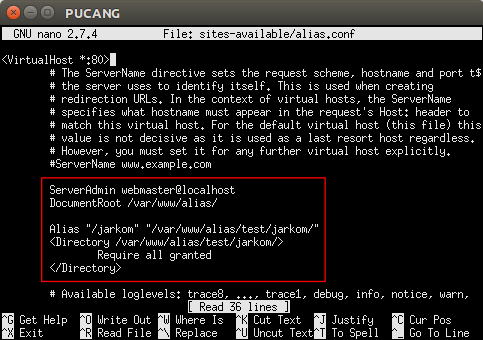
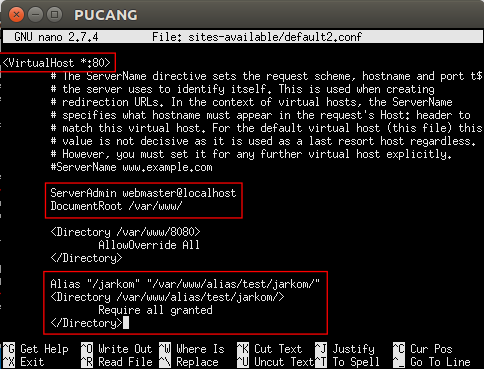
Web Server - Allow dan Deny

Changed region(s): [[0.0, 0.0, 1.0, 1.0], [0.8075, 0.8529, 0.9627, 0.8824], [0.7453, 0.8529, 0.7764, 0.8824]]

diff --git a/WebServer/README.md b/WebServer/README.md
@@ -103,18 +103,18 @@ Lalu untuk menjalankannya ketikkan `a2ensite default2.conf` dan kemudian restart
 ![Pucang9](images/09.png)
 
 ### 2.5 Alias Directory
-Alias directory adalah membuat direktori lebih mudah diakses tetapi tetap di bawah DocumentRoot. Silahkan masuk ke dalam __/etc/apache2__ dan salinlah file __000-default.conf__ yang ada pada folder __sites-available__ dan ubah namanya menjadi __alias.conf__. Langkah-langkahnya sama dengan ketika membuat file __default.conf__ pada poin sebelumnya. Kemudian buka __alias.conf__ dan tambahkan sintaks seperti gambar di bawah:
+Alias directory adalah membuat direktori lebih mudah diakses tetapi tetap di bawah DocumentRoot. Silahkan masuk ke dalam __/etc/apache2__ kemudian buka file __default2.conf__ yang sebelumnya sudah dikonfigurasi untuk poin sebelumnya. Edit file tersebut dan tambahkan seperti gambar di bawah ini:
 
 ![Pucang10](images/10.png)
 
-Setelah itu buatlah direktori __/alias/test/jarkom/__ dengan mengetikkan
+Kemudian restart apache2 dengan perintah `service apache2 restart`. Setelah itu buatlah direktori __/alias/test/jarkom/__ dengan mengetikkan
 ```
 mkdir /var/www/alias
 mkdir /var/www/alias/test
 mkdir /var/www/alias/test/jarkom
 ```
 
-Kemudian pada direktori __/var/www/alias/test/jarkom__ buatlah sebuah file bernama __jarkom.php__. Sebelum mengaktifkan konfigurasi __alias.conf__, pastikan konfigurasi yang lain sudah dimatikan. Karena konfigurasi yang baru kita coba adalah __default2.conf__ maka matikan konfigurasi tersebut dengan perintah `a2dissite default2.conf` kemudian restart apache2 dengan `service apache2 restart`. Setelah itu baru kita aktifkan konfigurasi __alias.conf__ dengan perintah `a2ensite alias.conf` dan kemudian restart apache2 `service apache2 restart`.
+Kemudian pada direktori __/var/www/alias/test/jarkom__ buatlah sebuah file bernama __jarkom.php__.
 
 Sekarang coba buka pada browser __IP PUCANG TIAP KELOMPOK/jarkom__ atau __pucang.com/jarkom__ (sesuai dengan DNS yang sudah dibuat masing-masing kelompok)
 
@@ -124,3 +124,32 @@ Lalu apa perbedaannya ketika kita mengakses __/test/jarkom__?
 ![Pucang12](images/12.png)
 
 ### 2.6 Directory Listing
+Silahkan masuk ke dalam __/etc/apache2__ kemudian buka file __default2.conf__ yang sebelumnya sudah dikonfigurasi untuk poin sebelumnya. Edit file tersebut dan tambahkan seperti gambar di bawah ini:
+
+![Pucang13](images/13.png)
+
+Kemudian coba akses website masing-masing maka akan muncul gambar seperti ini:
+
+![Pucang14](images/14.png)
+
+Lalu bagaimana cara agar kita dapat melihat isi dari direktori tersebut? Buka kembali __default2.conf__ dan ganti seperti gambar di bawah:
+
+![Pucang15](images/15.png)
+
+Setelah itu restart apache2 dan coba akses kembali website masing-masing maka kita dapat melihat isi file dari direktori seperti gambar di bawah:
+
+![Pucang16](images/16.png)
+
+### 2.7 Allow dan Deny
+Dalam web server dibutuhkan adanya proteksi dan penjagaan terhadap web server agar tetap aman. Dalam web server, kita bisa membatasi hak akses siapa saja yang boleh mengakses web server tersebut.
+
+Silahkan masuk ke dalam __/etc/apache2__ kemudian buka file __default2.conf__ yang sebelumnya sudah dikonfigurasi untuk poin sebelumnya. Edit file tersebut dan tambahkan seperti gambar di bawah ini:
+
+![Pucang17](images/17.png)
+
+Untuk mencoba konfigurasi yang baru saja kita buat, jangan lupa mematikan konfigurasi lain yang sedang aktif. Setelah itu aktifkan konfigurasi __aman.conf__ dengan perintah `a2ensite aman.conf` dan kemudian restart apache2. Kemudian coba akses website masing-masing maka direktori __html__ akan menghilang:
+
+![Pucang18](images/18.png)
+
+### 2.8 Basic Authentication
+Basic Authentication digunakan untuk mebatasi akses terhadap suatu halaman dengan memberikan suatu autentikasi untuk user-user tertentu dengan password yang sudah ditentukan.
